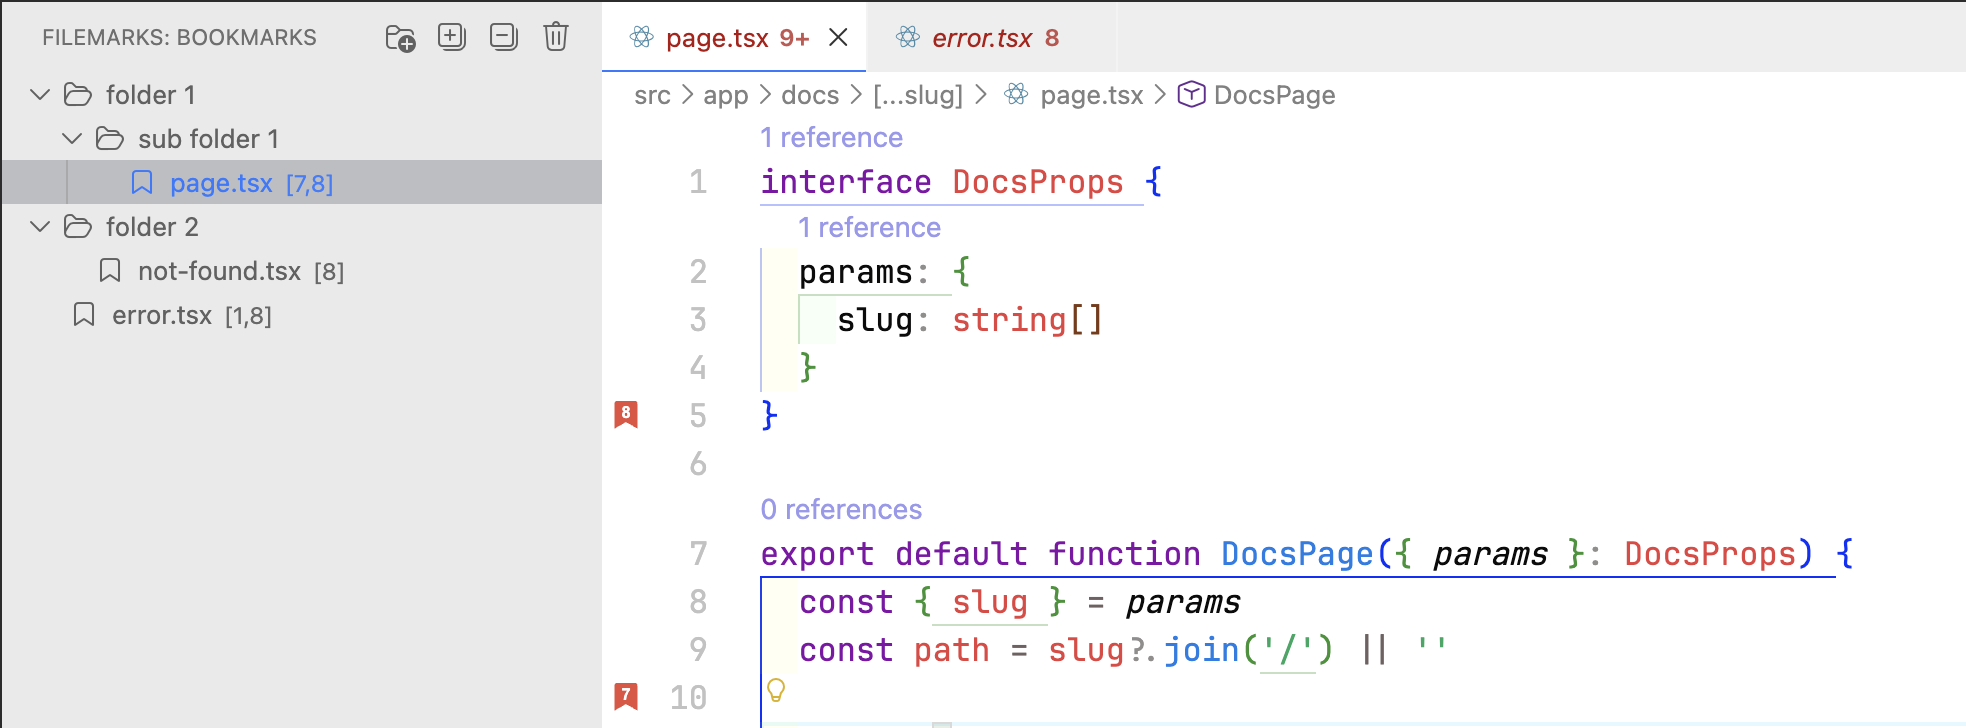
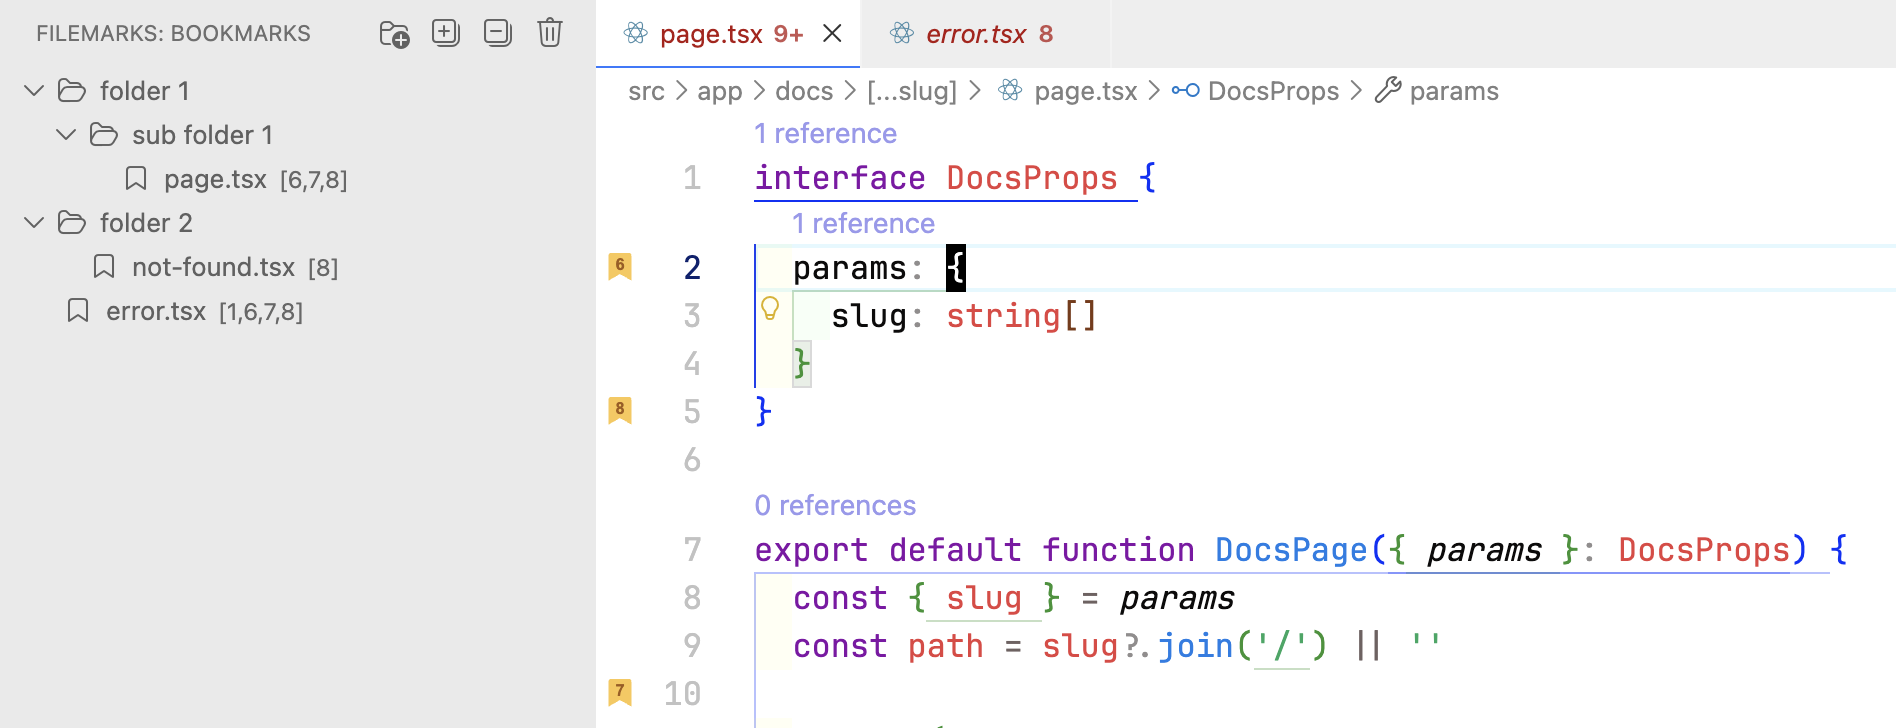
feat: 버전 0.4.0으로 업데이트 및 마커 색상 개선

diff --git a/CHANGELOG.md b/CHANGELOG.md
@@ -2,6 +2,16 @@
 
 All notable changes to the "filemarks" extension will be documented in this file.
 
+## [0.4.0] - 2025-01-05
+
+### Changed
+
+- **Marker Color**: Updated default gutter icon colors for better visibility
+  - Fill color changed from `#E74C3C` (red) to `#FBC74F` (yellow/gold)
+  - Number color changed from `#FFFFFF` (white) to `#A05A14` (brown)
+
+---
+
 ## [0.3.0] - 2025-01-05
 
 ### Initial Release
@@ -102,4 +112,5 @@ All notable changes to the "filemarks" extension will be documented in this file
 
 ## Version History
 
+- **0.4.0** - 2025-01-05 - Changed marker colors
 - **0.3.0** - 2025-01-05 - Initial release
